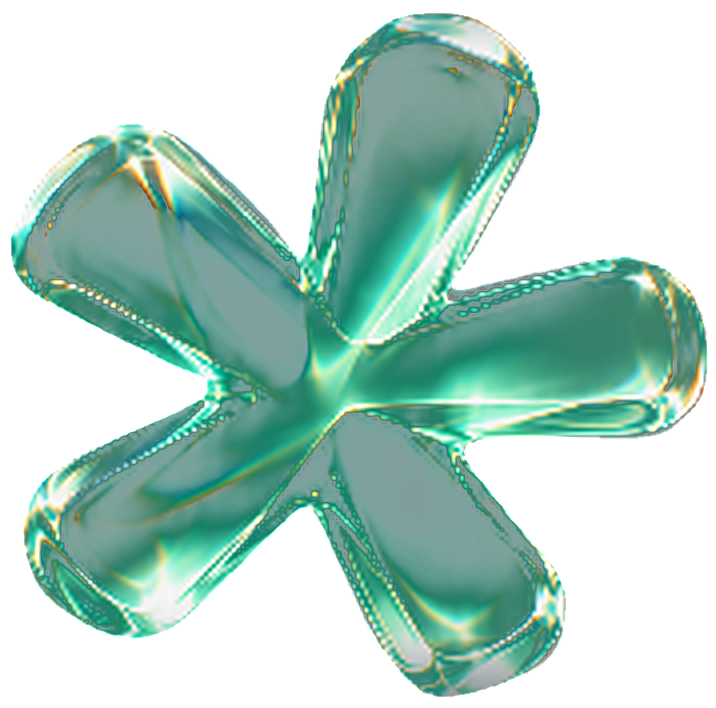
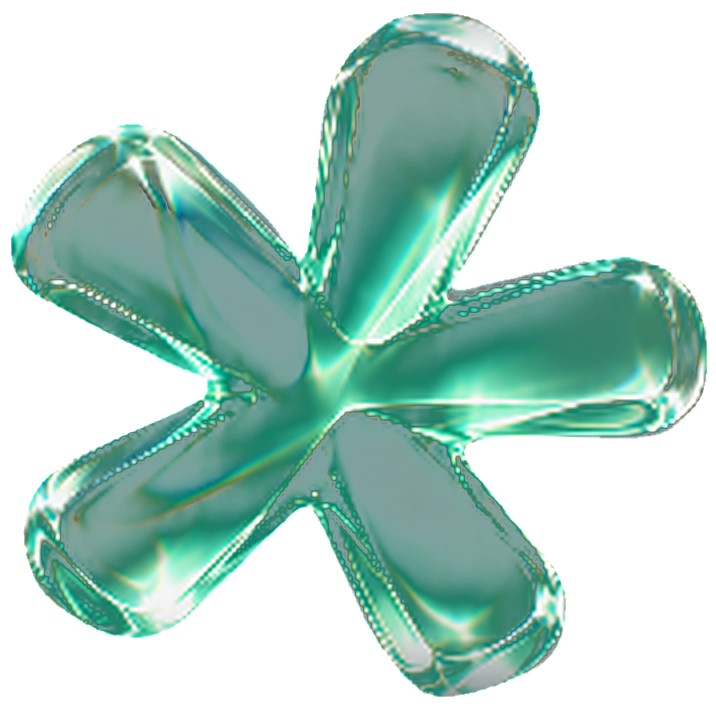
Polish jade lighting and widen chat attachments

diff --git a/main.py b/main.py
@@ -3369,7 +3369,7 @@ class GlassImagePreview(FloatLayout):
     def __init__(self, path, open_image, save_image, **kwargs):
         super().__init__(**kwargs)
         surface(self, T("panel"), (*T("accent")[:3], .33), 18, material="frosted")
-        image = PreviewImage(path, callback=open_image, size_hint=(.97, .94),
+        image = PreviewImage(path, callback=open_image, size_hint=(.98, .96),
                              pos_hint={"center_x": .5, "center_y": .5})
         self.add_widget(image)
         actions = BoxLayout(size_hint=(None, None), size=(dp(78), dp(36)), spacing=dp(6),
@@ -3424,26 +3424,37 @@ class MessageBubble(BoxLayout):
         show_avatars = STATE["show_avatars"]
         self._eclipse = STATE["theme"] == "aurora"
         self._jade_mobile = jade_mobile()
-        body_size = F("body") * (.94 if self._jade_mobile else 1)
+        body_size = self._body_font_size()
+        has_image = self.image_path and os.path.isfile(self.image_path)
+        self._wide_attachment = self._jade_mobile and bool(has_image)
         if self._eclipse:
             self.padding = (0, dp(2))
             self.spacing = dp(9)
 
+        if self._wide_attachment:
+            self.orientation = "vertical"
+            self.spacing = dp(5)
+            self.body_row = BoxLayout(size_hint_y=None, spacing=dp(9))
+            self.add_widget(self.body_row)
+            self.bind(minimum_height=self.setter("height"))
+        else:
+            self.body_row = self
+
         # Flexible space aligns assistant messages left and user messages right.
         if is_me:
-            self.add_widget(Widget(size_hint_x=1))
+            self.body_row.add_widget(Widget(size_hint_x=1))
         elif show_avatars and self._eclipse:
             avatar = AnchorLayout(anchor_y="top", size_hint_x=None, width=dp(39), padding=(0, dp(4), 0, 0))
             emblem = GlassArtwork(GLASS_ASSET, size_hint=(None, None), size=(dp(39), dp(39)))
             panel(emblem, T("chip"), T("panel3"), radius=20)
             avatar.add_widget(emblem)
-            self.add_widget(avatar)
+            self.body_row.add_widget(avatar)
         elif show_avatars:
-            self.add_widget(Avatar("AI", T("avatar_ai"), size_px=dp(25)))
+            self.body_row.add_widget(Avatar("AI", T("avatar_ai"), size_px=dp(25)))
         else:
-            self.add_widget(Widget(size_hint=(None, None), size=(dp(3), dp(1))))
+            self.body_row.add_widget(Widget(size_hint=(None, None), size=(dp(3), dp(1))))
 
-        bubble_pad = (dp(13), dp(8)) if self._jade_mobile else (dp(15), dp(11))
+        bubble_pad = (dp(14), dp(6)) if self._jade_mobile else (dp(15), dp(11))
         self.bubble = BoxLayout(orientation="vertical", size_hint=(None, None), spacing=dp(4),
                                 padding=bubble_pad if self._eclipse else (dp(12), dp(8)))
         self.bubble.bind(minimum_height=self.bubble.setter("height"))
@@ -3464,10 +3475,9 @@ class MessageBubble(BoxLayout):
                           font_name=font_path(), font_size=body_size,
                           bold=STATE["font_weight"] == "bold",
                           size_hint=(1, None), halign="left", valign="top",
-                          line_height=1.02 if self._jade_mobile else 1.12, markup=True, shorten=False)
+                          line_height=1 if self._jade_mobile else 1.12, markup=True, shorten=False)
         self.body.bind(width=self._body_width, texture_size=self._body_texture)
         self.body.bind(on_ref_press=self._open_markdown_link)
-        has_image = self.image_path and os.path.isfile(self.image_path)
         if self.text or not (self._jade_mobile and has_image):
             self.bubble.add_widget(self.body)
 
@@ -3513,16 +3523,16 @@ class MessageBubble(BoxLayout):
         self.bubble_stack.bind(minimum_height=self.bubble_stack.setter("height"), height=self._update_height)
         self.bubble.bind(width=self.bubble_stack.setter("width"))
         self.bubble_stack.add_widget(self.bubble)
-        if self._jade_mobile and self.image_preview is not None:
-            self.bubble_stack.add_widget(self.image_preview)
-        self.add_widget(self.bubble_stack)
+        self.body_row.add_widget(self.bubble_stack)
+        if self._wide_attachment:
+            self.add_widget(self.image_preview)
 
         if is_me and show_avatars and not self._eclipse:
-            self.add_widget(Avatar("Я", T("avatar_me"), size_px=dp(31)))
+            self.body_row.add_widget(Avatar("Я", T("avatar_me"), size_px=dp(31)))
         elif is_me and not self._eclipse:
-            self.add_widget(Widget(size_hint=(None, None), size=(dp(3), dp(1))))
+            self.body_row.add_widget(Widget(size_hint=(None, None), size=(dp(3), dp(1))))
         elif not is_me:
-            self.add_widget(Widget(size_hint_x=1))
+            self.body_row.add_widget(Widget(size_hint_x=1))
 
         self.bind(width=self._layout_width)
         Clock.schedule_once(self._layout_width, 0)
@@ -3540,8 +3550,8 @@ class MessageBubble(BoxLayout):
         if self._preferred_width:
             self.bubble.width = min(self.bubble.width, self._preferred_width)
         if self.image_preview is not None:
-            if self._jade_mobile:
-                self.image_preview.height = min(dp(255), max(dp(110), self.bubble.width * .53))
+            if self._wide_attachment:
+                self.image_preview.height = min(dp(300), max(dp(95), self.width * .48))
             else:
                 self.image_preview.height = min(dp(230), max(dp(150), self.bubble.width - dp(24)))
         self._body_width(self.body, self.body.width)
@@ -3566,18 +3576,26 @@ class MessageBubble(BoxLayout):
 
     def _update_height(self, *_):
         if hasattr(self, "bubble_stack"):
-            self.height = self.bubble_stack.height + dp(6)
+            if self._wide_attachment:
+                self.body_row.height = self.bubble_stack.height + dp(2)
+            else:
+                self.height = self.bubble_stack.height + dp(6)
 
     def add_reply_actions(self, actions):
-        self.bubble_stack.add_widget(actions)
+        container = self if self._wide_attachment else self.bubble_stack
+        container.add_widget(actions)
+
+    def _body_font_size(self):
+        return F("body") * (.98 if self._jade_mobile else 1)
 
     def set_text(self, text, force_update=True):
         self.text = text or ""
-        formatted, self._markdown_links = render_markdown(self.text, F("body"), code_blocks=self._markdown_code)
+        body_size = self._body_font_size()
+        formatted, self._markdown_links = render_markdown(self.text, body_size, code_blocks=self._markdown_code)
         self._stream_markdown_prefix = formatted
         self._stream_markdown_prefix_len = len(self.text)
         self.body.font_name = font_path()
-        self.body.font_size = F("body")
+        self.body.font_size = body_size
         self.body.bold = STATE.get("font_weight") == "bold"
         self.body.text = formatted
         if force_update:
@@ -3601,8 +3619,9 @@ class MessageBubble(BoxLayout):
         if not piece:
             return
         self.text += str(piece)
+        body_size = self._body_font_size()
         self.body.font_name = font_path()
-        self.body.font_size = F("body")
+        self.body.font_size = body_size
         self.body.bold = STATE.get("font_weight") == "bold"
 
         # Only commit a prefix at a line/word boundary. Already displayed paragraphs then
@@ -3619,7 +3638,7 @@ class MessageBubble(BoxLayout):
             if stable_end > self._stream_markdown_prefix_len:
                 prefix = self.text[:stable_end]
                 self._stream_markdown_prefix, self._markdown_links = render_markdown(
-                    prefix, F("body"), code_blocks=self._markdown_code)
+                    prefix, body_size, code_blocks=self._markdown_code)
                 self._stream_markdown_prefix_len = stable_end
                 self._stream_markdown_refresh_at = now
 
@@ -4051,7 +4070,10 @@ class ChatRoot(BoxLayout):
             self.composer_mic_button = IconAction("", "mic", self.voice_click, self._nav_color)
             composer.add_widget(self.composer_mic_button)
         self.action_slot = BoxLayout(size_hint=(None, None), size=(dp(45), dp(44)))
-        send_color = lambda key: T("send") if key == "accent" and STATE["theme"] == "aurora" else self._nav_color(key)
+        def send_color(key):
+            if key == "accent" and STATE["theme"] == "aurora" and not jade_mobile():
+                return T("send")
+            return self._nav_color(key)
         self.send_button = IconAction("", "send_jade" if jade_mobile() else "send", self._press_send, send_color,
                                         variant="solid",
                                         size_hint=(1, 1), radius=23,
@@ -5254,7 +5276,7 @@ class ChatRoot(BoxLayout):
                                     "Инструменты и данные приложения", grouped=True)
         profile.height = dp(76 if mobile_glass else 72)
         if STATE["theme"] == "aurora":
-            panel(profile, T("profile_glass"), (*T("accent")[:3], .40), 18, luminous=True,
+            panel(profile, T("profile_glass"), (*T("accent")[:3], .22 if mobile_glass else .40), 18, luminous=True,
                   material="profile" if mobile_glass else None)
         else:
             surface(profile, T("panel"), T("panel3"), 18)

diff --git a/aish_mobile.py b/aish_mobile.py
@@ -574,8 +574,10 @@ class Glyph(Widget):
                 circle(10, 14, 6)
                 path((14.4, 9.4), (20, 4))
             elif name == "copy":
-                rect(8, 7, 12, 13, 2)
-                path((15, 4), (5, 4), (4, 5), (4, 15))
+                rect(8.5, 6.8, 12, 13.9, 2.3)
+                curve((16.6, 3.6), ((12, 3.6), (8.7, 3.6), (6.2, 3.6)),
+                      ((4.7, 3.6), (3.7, 4.7), (3.7, 6.2)),
+                      ((3.7, 9.5), (3.7, 12.4), (3.7, 15.9)))
             elif name == "bookmark":
                 path((6, 3), (6, 19), (8, 21), (16, 21), (18, 19), (18, 3),
                      (12, 7), (6, 3))
@@ -583,8 +585,13 @@ class Glyph(Widget):
                 Line(circle=(x(12), y(12), 7.6 * unit, 40, 309), width=stroke, cap="round")
                 path((19.5, 20), (19.5, 14.5), (14, 14.5))
             elif name == "folder":
-                path((3, 17), (9, 17), (11, 15), (19, 15), (21, 13), (21, 6),
-                     (19, 4), (5, 4), (3, 6), (3, 17))
+                path((3, 16.1), (3, 19.5), (8.8, 19.5), (11, 16.9), (18, 16.9))
+                curve((18, 16.9), ((20.2, 16.9), (21.1, 16.2), (21.1, 14.5)),
+                      ((21.1, 12), (21.1, 9.8), (21.1, 7.3)),
+                      ((21.1, 5.5), (20.3, 4.8), (18.5, 4.8)),
+                      ((14, 4.8), (10, 4.8), (5.6, 4.8)),
+                      ((4, 4.8), (3, 5.6), (3, 7.3)),
+                      ((3, 10.1), (3, 13.2), (3, 16.1)))
             elif name == "book":
                 path((12, 5), (8, 8), (3, 8), (3, 19), (8, 19), (12, 16),
                      (16, 19), (21, 19), (21, 8), (16, 8), (12, 5), (12, 16))
@@ -653,9 +660,12 @@ class Glyph(Widget):
                         circle(px, py, .8, True)
                 path((9, 8), (15, 8))
             elif name == "bell":
-                path((3, 6), (6, 10), (6, 15), (8, 19), (12, 21), (16, 19), (18, 15),
-                     (18, 10), (21, 6), (3, 6))
-                path((9, 4), (10, 2), (14, 2), (15, 4))
+                curve((3.5, 6), ((5.4, 8.3), (6.3, 9.8), (6.3, 13.9)),
+                      ((6.3, 17.5), (8.5, 20.1), (12, 20.1)),
+                      ((15.5, 20.1), (17.7, 17.5), (17.7, 13.9)),
+                      ((17.7, 9.8), (18.6, 8.3), (20.5, 6)))
+                path((3.5, 6), (20.5, 6))
+                curve((9.2, 3.8), ((10, 1.7), (14, 1.7), (14.8, 3.8)))
             elif name == "type":
                 path((2, 6), (6, 16), (10, 6))
                 path((3.5, 10), (8.5, 10))
@@ -704,7 +714,7 @@ def panel(widget, color, rim=None, radius=14, inset=0, luminous=False, glass=Fal
         canvas = background
     with canvas:
         diffusion = None
-        if material in ("lit", "shortcut", "profile"):
+        if material in ("lit", "shortcut"):
             Color(1, 1, 1, 1)
             diffusion = Mesh(mode="triangle_strip", texture=halo_film(material == "shortcut"),
                              indices=list(range(74)))
@@ -747,9 +757,9 @@ def panel(widget, color, rim=None, radius=14, inset=0, luminous=False, glass=Fal
         if material and artwork is not None:
             artwork.pos, artwork.size, artwork.radius = pos, size, [corner]
         if bevel is not None and min(size) > 0:
-            bevel.vertices = _bevel_vertices(pos, size, corner, dp(1.55 if material == "lit" else 1.15))
+            bevel.vertices = _bevel_vertices(pos, size, corner, dp(1.35 if material == "lit" else 1.15))
         if diffusion is not None and min(size) > 0:
-            diffusion.vertices = _bevel_vertices(pos, size, corner, dp(16 if material == "lit" else 7), outside=True)
+            diffusion.vertices = _bevel_vertices(pos, size, corner, dp(12 if material == "lit" else 7), outside=True)
         if border:
             border.rounded_rectangle = (*pos, *size, corner)
         for glow in aura:

diff --git a/aish_glass.py b/aish_glass.py
@@ -24,15 +24,15 @@ class Material:
 MATERIALS = {
     "frosted": Material((139, 202, 183), .28, .15, .11, .13),
     "field": Material((161, 212, 197), .20, .19, .17, .22),
-    "emerald": Material((130, 242, 190), .43, .36, .30, .39),
-    "lit": Material((144, 254, 200), .52, .39, .70, .84),
-    "mint": Material((169, 254, 222), .39, .70, .03, .36),
+    "emerald": Material((130, 242, 190), .42, .32, .38, .38),
+    "lit": Material((144, 254, 200), .52, .37, .70, .88),
+    "mint": Material((169, 254, 222), .24, .76, .12, .30),
     "settings": Material((137, 194, 177), .20, .082, .13, .11),
-    "shortcut": Material((154, 208, 193), .30, .20, .14, .19),
+    "shortcut": Material((154, 208, 193), .34, .24, .24, .22),
     "history": Material((128, 205, 186), .22, .16, .13, .10),
     "badge": Material((117, 248, 188), .40, .21, .43, .29),
-    "answer": Material((141, 217, 195), .24, .18, .16, .15),
-    "profile": Material((136, 245, 194), .38, .25, .39, .42),
+    "answer": Material((141, 217, 195), .26, .15, .20, .14),
+    "profile": Material((136, 245, 194), .38, .29, .39, .21),
     "control": Material((160, 217, 199), .37, .21, .20, .22),
     "nav": Material((136, 205, 182), .22, .15, .07, .10),
     "nav-selected": Material((104, 238, 177), .36, .42, .06, .11),
@@ -63,11 +63,15 @@ def glass_film(name):
             shade = .22 + .78 * exp(-((y - .44) / .33) ** 2 - ((x - .56) / .64) ** 2)
             key = exp(-((y - 1.03 + .067 * x) / .20) ** 2 - ((x - .16) / .77) ** 2)
             focus = .42 if name in ("lit", "badge") else .83
-            bounce = exp(-(y / .19) ** 2 - ((x - focus) / .62) ** 2)
+            lower_falloff = .15 if name in ("lit", "shortcut") else .19
+            bounce = exp(-(y / lower_falloff) ** 2 - ((x - focus) / .62) ** 2)
             side = exp(-(x / .079) ** 2) * exp(-((y - .53) / .49) ** 2)
             reflection = material.top_light * key + material.lower_light * bounce
             reflection += .29 * material.lower_light * side
             reflection += material.top_light * .13 * exp(-((y - .81 + .24 * x) / .12) ** 2)
+            if name in ("lit", "shortcut"):
+                reflected_edge = exp(-((y - .052) / .046) ** 2 - ((x - .46) / .53) ** 2)
+                reflection += .23 * material.lower_light * reflected_edge
             reflection = min(.87, reflection)
             tint = material.deep_green * shade
             alpha = tint + reflection * (1 - tint)
@@ -87,9 +91,9 @@ def edge_film(name):
         y = row / (height - 1)
         for col in range(width):
             x = col / (width - 1)
-            highlight = exp(-((x - .14) / .35) ** 2 - ((y - 1) / .28) ** 2)
-            bounce = exp(-((x - .74) / .54) ** 2 - (y / .24) ** 2)
-            alpha = material.rim * (.16 + .84 * max(highlight, bounce))
+            highlight = exp(-((x - .14) / .28) ** 2 - ((y - 1) / .30) ** 2)
+            bounce = exp(-((x - .62) / .51) ** 2 - (y / .23) ** 2)
+            alpha = material.rim * (.12 + .88 * max(highlight, bounce))
             pixels.extend((*material.reflection, round(alpha * 255)))
     return texture_from_rgba(width, height, pixels)
 
